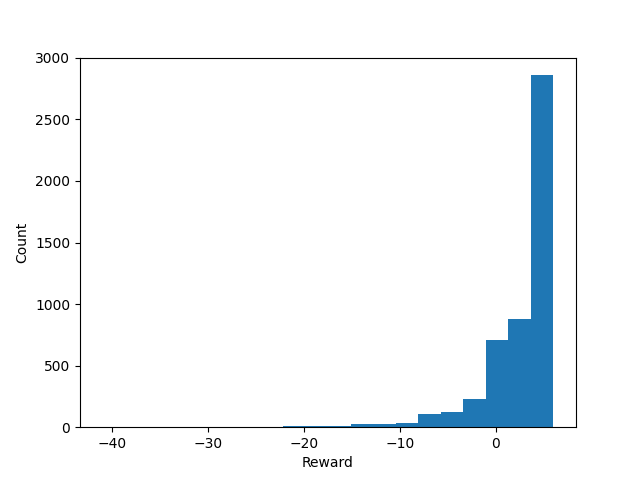
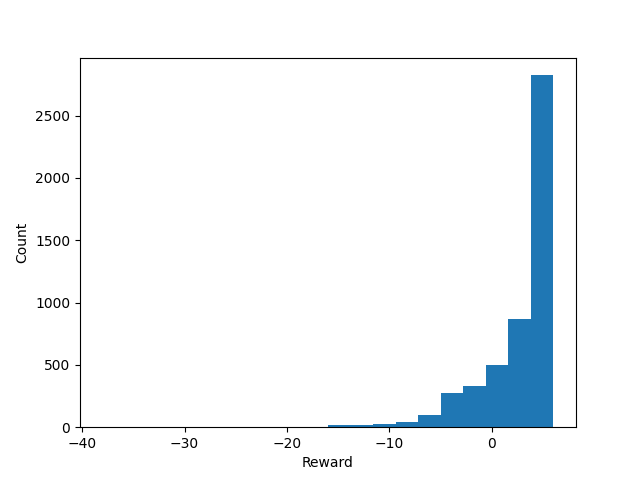
updates
Driver Code can handle changing exploration strategy
Fine tuning parameters for softmax and UCB1

diff --git a/driver.py b/driver.py
@@ -104,10 +104,10 @@ def main():
         meta = np.array([0.4, 0.9999], dtype = np.float64) # epsilon, decay rate
         ex = eGreedy(model, meta)
     elif strat == "s":
-        meta = (0.1, 1.012)  # precision parameter, precision factor (>decay = higher num)
+        meta = (0.01, 1.00022)  # precision parameter, precision factor (>decay = higher num)
         ex = Softmax(meta)
     else:
-        ex = UCB1(rlen, A, 50, 0.999)
+        ex = UCB1(rlen*rlen*A, A, 10, 0.9999)  # num states, num actions, c, decay
 
 
     epoch = 1e5
